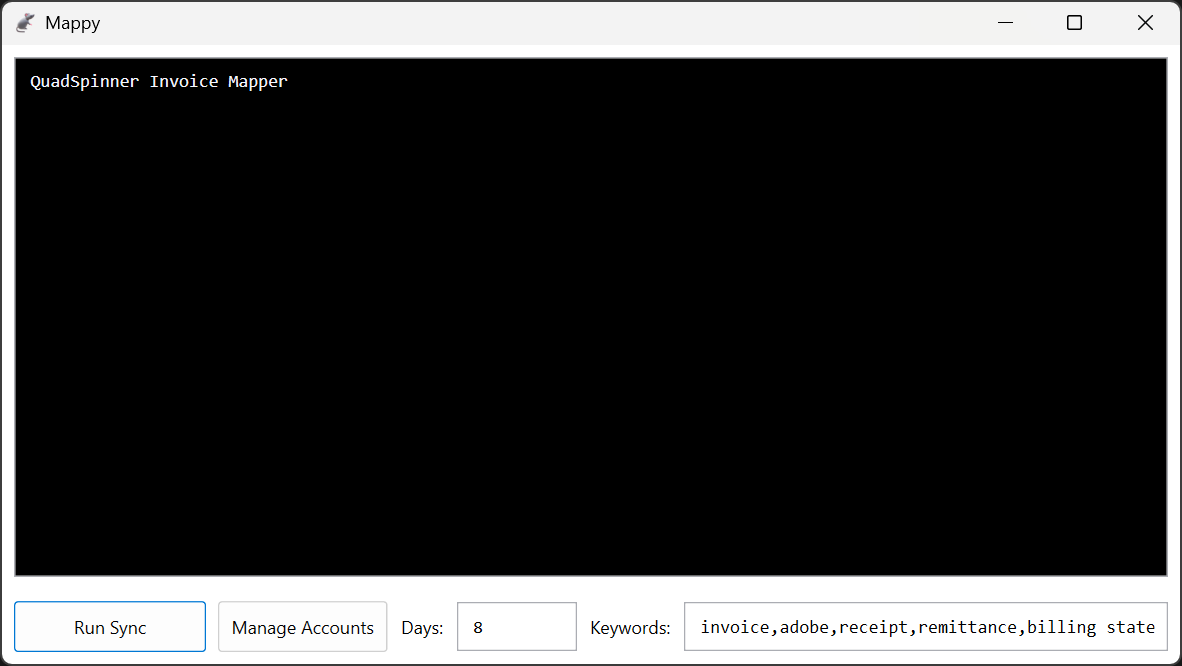
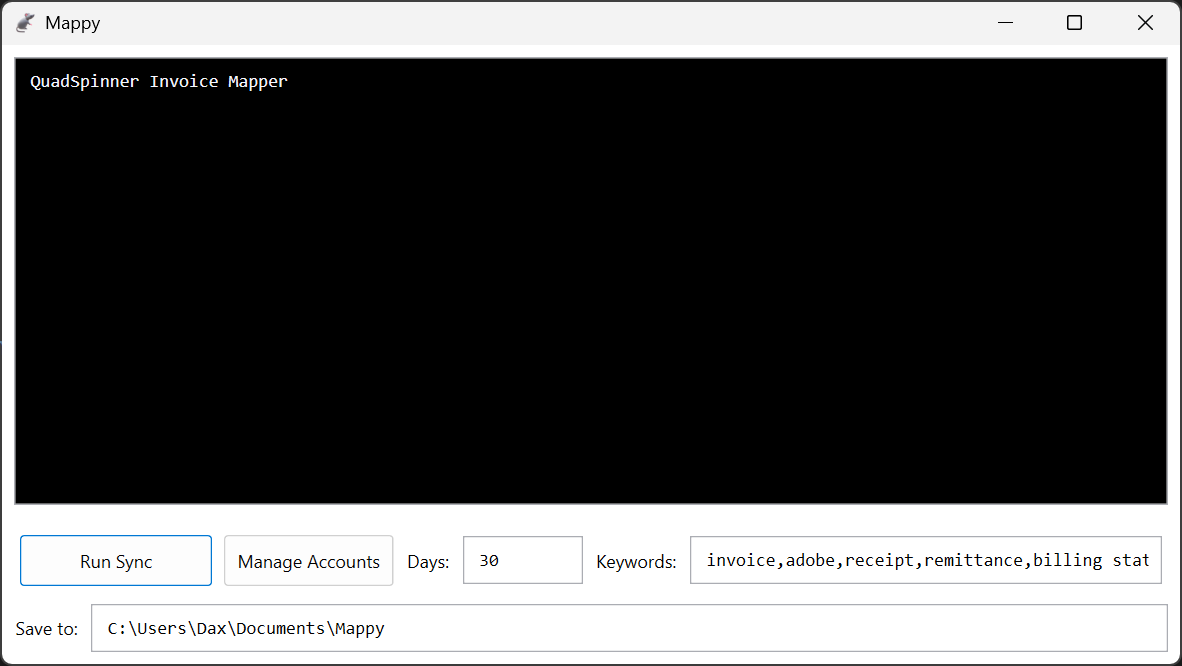
Improvements

diff --git a/Mappy/MainWindow.xaml b/Mappy/MainWindow.xaml
@@ -3,34 +3,60 @@
         xmlns:x="http://schemas.microsoft.com/winfx/2006/xaml"
         xmlns:d="http://schemas.microsoft.com/expression/blend/2008"
         xmlns:mc="http://schemas.openxmlformats.org/markup-compatibility/2006"
-        Title="Mappy"
+        Title="QuadSpinner Mappy"
         Width="800"
         Height="450"
         mc:Ignorable="d">
-    <DockPanel>
-        <DockPanel DockPanel.Dock="Bottom" Margin="4">
-            <Button Margin="4" Style="{StaticResource Button-Important}" MinWidth="128"
-                    Padding="8" x:Name="btnSync"
-                    Content="Run Sync" Click="RunSync" />
-            <Button Margin="4"
-                    Padding="8"
-                    Content="Manage Accounts" Click="ShowAccountsDialog" />
-            <Label Content="Days:" VerticalAlignment="Center"></Label>
-            <TextBox x:Name="txtDays"
-                     Padding="8"
-                     Margin="4"
-                     VerticalAlignment="Center"
-                     FontFamily="Consolas"
-                     Text="8" Width="80" />
-            <Label Content="Keywords:" VerticalAlignment="Center"></Label>
-            <TextBox x:Name="k"
-                     Padding="8"
-                     Margin="4"
-                     VerticalAlignment="Center"
-                     FontFamily="Consolas"
-                     Text="invoice,receipt,remittance,billing statement,order" />
-        </DockPanel>
-        <TextBox x:Name="t"
+    <DockPanel Margin="8">
+        <StackPanel Margin="4,0,4,4" DockPanel.Dock="Bottom">
+
+            <DockPanel Margin="4">
+                <Button x:Name="btnSync"
+                        MinWidth="128"
+                        Margin="4"
+                        Padding="8"
+                        Click="RunSync"
+                        Content="Run Sync"
+                        Style="{StaticResource Button-Important}" />
+                <Button Margin="4"
+                        Padding="8"
+                        Click="ShowAccountsDialog"
+                        Content="Manage Accounts" />
+                <Label VerticalAlignment="Center" Content="Days:" />
+                <TextBox x:Name="txtDays"
+                         Width="80"
+                         Margin="4"
+                         Padding="8"
+                         VerticalAlignment="Center"
+                         FontFamily="Consolas"
+                         Text="8" />
+                <Label VerticalAlignment="Center" Content="Keywords:" />
+                <TextBox x:Name="txtKeywords"
+                         Margin="4"
+                         Padding="8"
+                         VerticalAlignment="Center"
+                         FontFamily="Consolas"
+                         Text="invoice,receipt,remittance,billing statement,order" />
+            </DockPanel>
+            <DockPanel Margin="4,0">
+                <Label VerticalAlignment="Center" Content="Save to:" />
+                <CheckBox x:Name="chkOpenWhenFinished"
+                          VerticalAlignment="Center"
+                          Content="Open when finished"  Margin="4"
+                          DockPanel.Dock="Right" />
+
+                <Button x:Name="btnOpenFolder" Click="BtnOpenFolder_OnClick"
+                          Content="Open Folder"  Margin="4"
+                          DockPanel.Dock="Right" />
+                <TextBox x:Name="txtDestination"
+                         Margin="4"
+                         Padding="8"
+                         VerticalAlignment="Center"
+                         FontFamily="Consolas"
+                         Text="docs" />
+            </DockPanel>
+        </StackPanel>
+        <TextBox x:Name="txtConsole"
                  Margin="8"
                  Padding="8"
                  AcceptsReturn="True"

diff --git a/Mappy/MainWindow.xaml.cs b/Mappy/MainWindow.xaml.cs
@@ -1,4 +1,6 @@
 using Mappy.Data;
+using Mappy.Logic;
+using System.Diagnostics;
 using System.IO;
 using System.Windows;
 using System.Windows.Input;
@@ -6,7 +8,7 @@ using System.Windows.Threading;
 
 namespace Mappy
 {
-    public partial class MainWindow : Window
+    public partial class MainWindow
     {
         public MainWindow()
         {
@@ -21,13 +23,22 @@ namespace Mappy
             string kw = EmailAccountStore.GetPath("keywords.txt");
             if (File.Exists(kw))
             {
-                k.Text = File.ReadAllText(kw);
+                txtKeywords.Text = File.ReadAllText(kw);
             }
+
+            string dw = EmailAccountStore.GetPath("destination.txt");
+            txtDestination.Text = File.Exists(dw) ? File.ReadAllText(dw) : Environment.GetFolderPath(Environment.SpecialFolder.MyDocuments) + "\\Mappy";
+
+            string tw = EmailAccountStore.GetPath("days.txt");
+
+            txtDays.Text = File.Exists(tw) ? File.ReadAllText(tw) : "30";
         }
 
         private void MainWindow_Closing(object sender, System.ComponentModel.CancelEventArgs e)
         {
-            File.WriteAllText(EmailAccountStore.GetPath("keywords.txt"), k.Text);
+            File.WriteAllText(EmailAccountStore.GetPath("keywords.txt"), txtKeywords.Text);
+            File.WriteAllText(EmailAccountStore.GetPath("destination.txt"), txtDestination.Text);
+            File.WriteAllText(EmailAccountStore.GetPath($"Log_{DateTime.Now:yyyy-MM-dd_HH-mm-ss}.txt"), txtConsole.Text);
         }
 
         private void Guts_Notify(string text, bool line)
@@ -50,38 +61,76 @@ namespace Mappy
 
         private void RunSync(object sender, RoutedEventArgs e)
         {
-            btnSync.IsEnabled = false;
             int numDays = int.TryParse(txtDays.Text, out var days) && days > 0 ? days : 3;
-            string[] globalKeywords = k.Text.Split(',', StringSplitOptions.TrimEntries | StringSplitOptions.RemoveEmptyEntries);
-            Mouse.OverrideCursor = Cursors.Wait;
+            string[] globalKeywords = txtKeywords.Text.Split(',', StringSplitOptions.TrimEntries | StringSplitOptions.RemoveEmptyEntries);
 
+            if (Directory.Exists(txtDestination.Text))
+            {
+                try
+                {
+                    Directory.CreateDirectory(txtDestination.Text);
+                }
+                catch (Exception ex)
+                {
+                    MessageBox.Show(ex.Message, "Error creating folder", MessageBoxButton.OK, MessageBoxImage.Error);
+                    return;
+                }
+            }
+
+            Guts.baseFolder = txtDestination.Text;
+
+            Mouse.OverrideCursor = Cursors.Wait;
+            btnSync.IsEnabled = false;
+            WriteLine("");
+            WriteLine("");
+            WriteLine($"New sync started at {DateTime.Now.ToLongTimeString()}");
             Task.Run(async () =>
             {
+                SetStatus("Loading accounts...");
                 var store = await EmailAccountStore.LoadAsync();
 
                 var accounts = store.Accounts;
 
+                bool error = false;
+                WriteLine($"{accounts.Count} accounts found.");
+
                 foreach (var account in accounts)
                 {
-                    var localKeywords = account.Keywords is { Count: > 0 } ? new List<string>(account.Keywords) : new List<string>();
-                    localKeywords.AddRange(globalKeywords);
+                    try
+                    {
+                        SetStatus(account.Username);
+                        var localKeywords = account.Keywords is { Count: > 0 } ? new List<string>(account.Keywords) : new List<string>();
+                        localKeywords.AddRange(globalKeywords);
 
-                    WriteLine("");
-                    WriteLine("");
-                    WriteLine($"Syncing account: {account.Username} at {account.Host}");
-                    await Guts.GetMessages(
-                        account.Host, account.Port, account.UseSsl,
-                        account.Username, account.Password, numDays,
-                        localKeywords.ToArray(), account.Folders?.ToArray() ?? []);
+                        WriteLine("");
+                        WriteLine("");
+                        WriteLine($"Syncing account: {account.Username}");
+                        await Guts.GetMessages(
+                            account.Host, account.Port, account.UseSsl,
+                            account.Username, account.Password, numDays,
+                            localKeywords.ToArray(), account.Folders?.ToArray() ?? []);
+                    }
+                    catch (Exception ex)
+                    {
+                        WriteLine($"❌ Error with account {account.Username} at {account.Host}: {ex.Message}");
+                        error = true;
+                    }
                 }
 
-                WriteLine($"\n\nAll operations completed.");
+                WriteLine($"\nSync finished at {DateTime.Now.ToLongTimeString()}");
+                WriteLine(error ? "\n\nSome operations may not have completed." : "\n\n✔ All operations completed.");
 
                 await Dispatcher.BeginInvoke(DispatcherPriority.Render,
                     new Action(() =>
                     {
                         Mouse.OverrideCursor = null;
                         btnSync.IsEnabled = true;
+                        SetStatus();
+
+                        if (chkOpenWhenFinished.IsChecked == true)
+                        {
+                            Process.Start("explorer.exe", txtDestination.Text);
+                        }
                     }));
             });
         }
@@ -91,10 +140,10 @@ namespace Mappy
             Dispatcher.BeginInvoke(DispatcherPriority.Render,
                 new Action(() =>
                 {
-                    if (t == null) return;
+                    if (txtConsole == null) return;
 
-                    t.AppendText(text);
-                    t.ScrollToEnd();
+                    txtConsole.AppendText(text);
+                    txtConsole.ScrollToEnd();
                 }));
         }
 
@@ -103,11 +152,15 @@ namespace Mappy
             Dispatcher.BeginInvoke(DispatcherPriority.Render,
                 new Action(() =>
                 {
-                    if (t == null) return;
+                    if (txtConsole == null) return;
 
-                    t.AppendText(text + Environment.NewLine);
-                    t.ScrollToEnd();
+                    txtConsole.AppendText(text + Environment.NewLine);
+                    txtConsole.ScrollToEnd();
                 }));
         }
+
+        private void SetStatus(string text = "") => Dispatcher.BeginInvoke(DispatcherPriority.Render, new Action(() => Title = string.IsNullOrEmpty(text) ? $"QuadSpinner Mappy" : $"QuadSpinner Mappy - {text}"));
+
+        private void BtnOpenFolder_OnClick(object sender, RoutedEventArgs e) => Process.Start("explorer.exe", txtDestination.Text);
     }
 }

diff --git a/Mappy/Logic/Guts.cs b/Mappy/Logic/Guts.cs
@@ -1,12 +1,12 @@
-using System.IO;
-using iText.Kernel.Pdf;
+using iText.Kernel.Pdf;
 using iText.Kernel.Pdf.Canvas.Parser;
 using MailKit;
 using MailKit.Net.Imap;
 using MailKit.Search;
 using MimeKit;
+using System.IO;
 
-namespace Mappy
+namespace Mappy.Logic
 {
     internal static class Guts
     {
@@ -28,11 +28,23 @@ namespace Mappy
         {
             bool ensureKeywords = keywords != null;
             DateTime period = DateTime.Now.AddDays(-days);
-            RaiseNotify($"Connecting...{username}", true);
+            RaiseNotify($"Connecting {host}:{port}...");
 
             using var client = new ImapClient();
-            await client.ConnectAsync(host, port, useSsl);
-            await client.AuthenticateAsync(username, password);
+
+            try
+            {
+                await client.ConnectAsync(host, port, useSsl);
+                await client.AuthenticateAsync(username, password);
+
+                RaiseNotify("success!\n", true);
+            }
+            catch (Exception ex)
+            {
+                RaiseNotify("failed!", true);
+                RaiseNotify($"!!! Login Error: {ex.Message}", true);
+                return;
+            }
 
             List<IMailFolder> mailFolders = [client.Inbox];
 
@@ -43,14 +55,17 @@ namespace Mappy
                     IMailFolder f = await client.GetFolderAsync(t);
                     if (f != null)
                     {
-                        RaiseNotify($"Added {f.Name}", true);
                         mailFolders.Add(f);
                     }
                 }
             }
 
+            int fo = 0;
+
             foreach (IMailFolder folder in mailFolders)
             {
+                fo++;
+
                 await folder.OpenAsync(FolderAccess.ReadOnly);
 
                 IList<UniqueId> uids = await folder.SearchAsync(SearchQuery.DeliveredAfter(period).And(BuildKeywordQuery(keywords)));
@@ -67,14 +82,19 @@ namespace Mappy
 
                 // Retrieve emails delivered after one month ago.
 
-                RaiseNotify($"{uids.Count} total for folder {folder.Name}.", true);
+                RaiseNotify($"[{fo}/{mailFolders.Count}] {folder.Name}: {uids.Count} matches.", true);
+
+                int i = 1;
 
                 foreach (var uid in uids)
                 {
                     var message = await folder.GetMessageAsync(uid);
 
                     if (string.IsNullOrEmpty(message.Subject) || !message.Attachments.Any())
+                    {
+                        i++;
                         continue;
+                    }
 
                     DateTime emailDate = message.Date.LocalDateTime;
                     // Determine sender folder.
@@ -95,6 +115,8 @@ namespace Mappy
                     // Process PDF attachments.
                     await ParseAttachments(ensureKeywords, keywords, message, emailDate, senderFolder, fullFolderPath);
                 }
+
+                RaiseNotify($"   ↪ {uids.Count - i} processed. {i} skipped.", true);
             }
 
             await client.DisconnectAsync(true);
@@ -151,26 +173,26 @@ namespace Mappy
                         }
                         catch (Exception ex)
                         {
-                            RaiseNotify("!!! ERROR: " + ex.Message, true);
-                            RaiseNotify($"!!! File was: {fileName}", true);
+                            RaiseNotify($"   {fileName}...failed!");
+                            RaiseNotify("   !!! ERROR: " + ex.Message, true);
                             continue;
                         }
                     }
 
                     //RaiseNotify($"{message.Date:MM-dd}: {message.Subject} -- ");
                     string filePath = Path.Combine(fullFolderPath, fileName);
-                    RaiseNotify($"{filePath}...");
+                    string result = "✔";
                     if (!File.Exists(filePath))
                     {
                         Directory.CreateDirectory(fullFolderPath);
                         await using var stream = File.Create(filePath);
                         await part.Content.DecodeToAsync(stream);
-                        RaiseNotify("done!", true);
                     }
                     else
                     {
-                        RaiseNotify("exists!", true);
+                        result = "⇢";
                     }
+                    RaiseNotify($"  {result} {fileName}", true);
                 }
             }
         }
